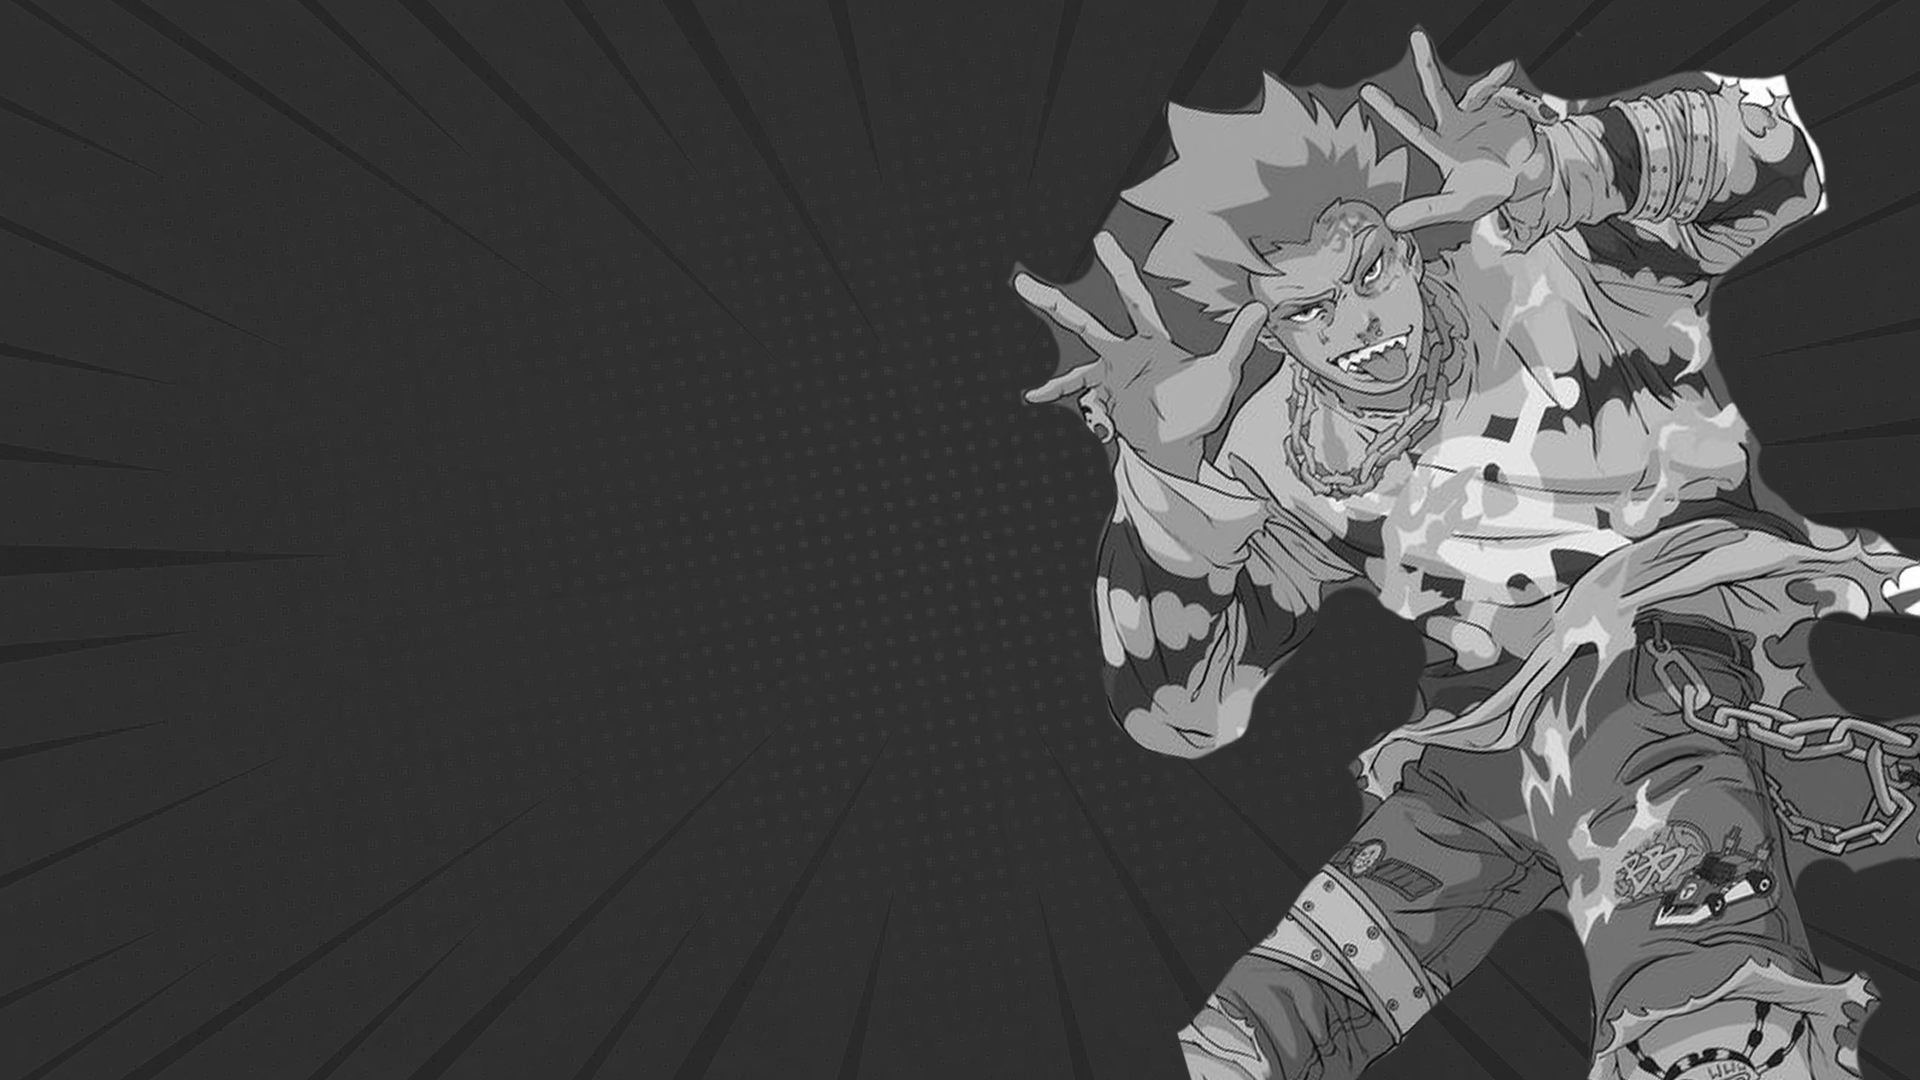
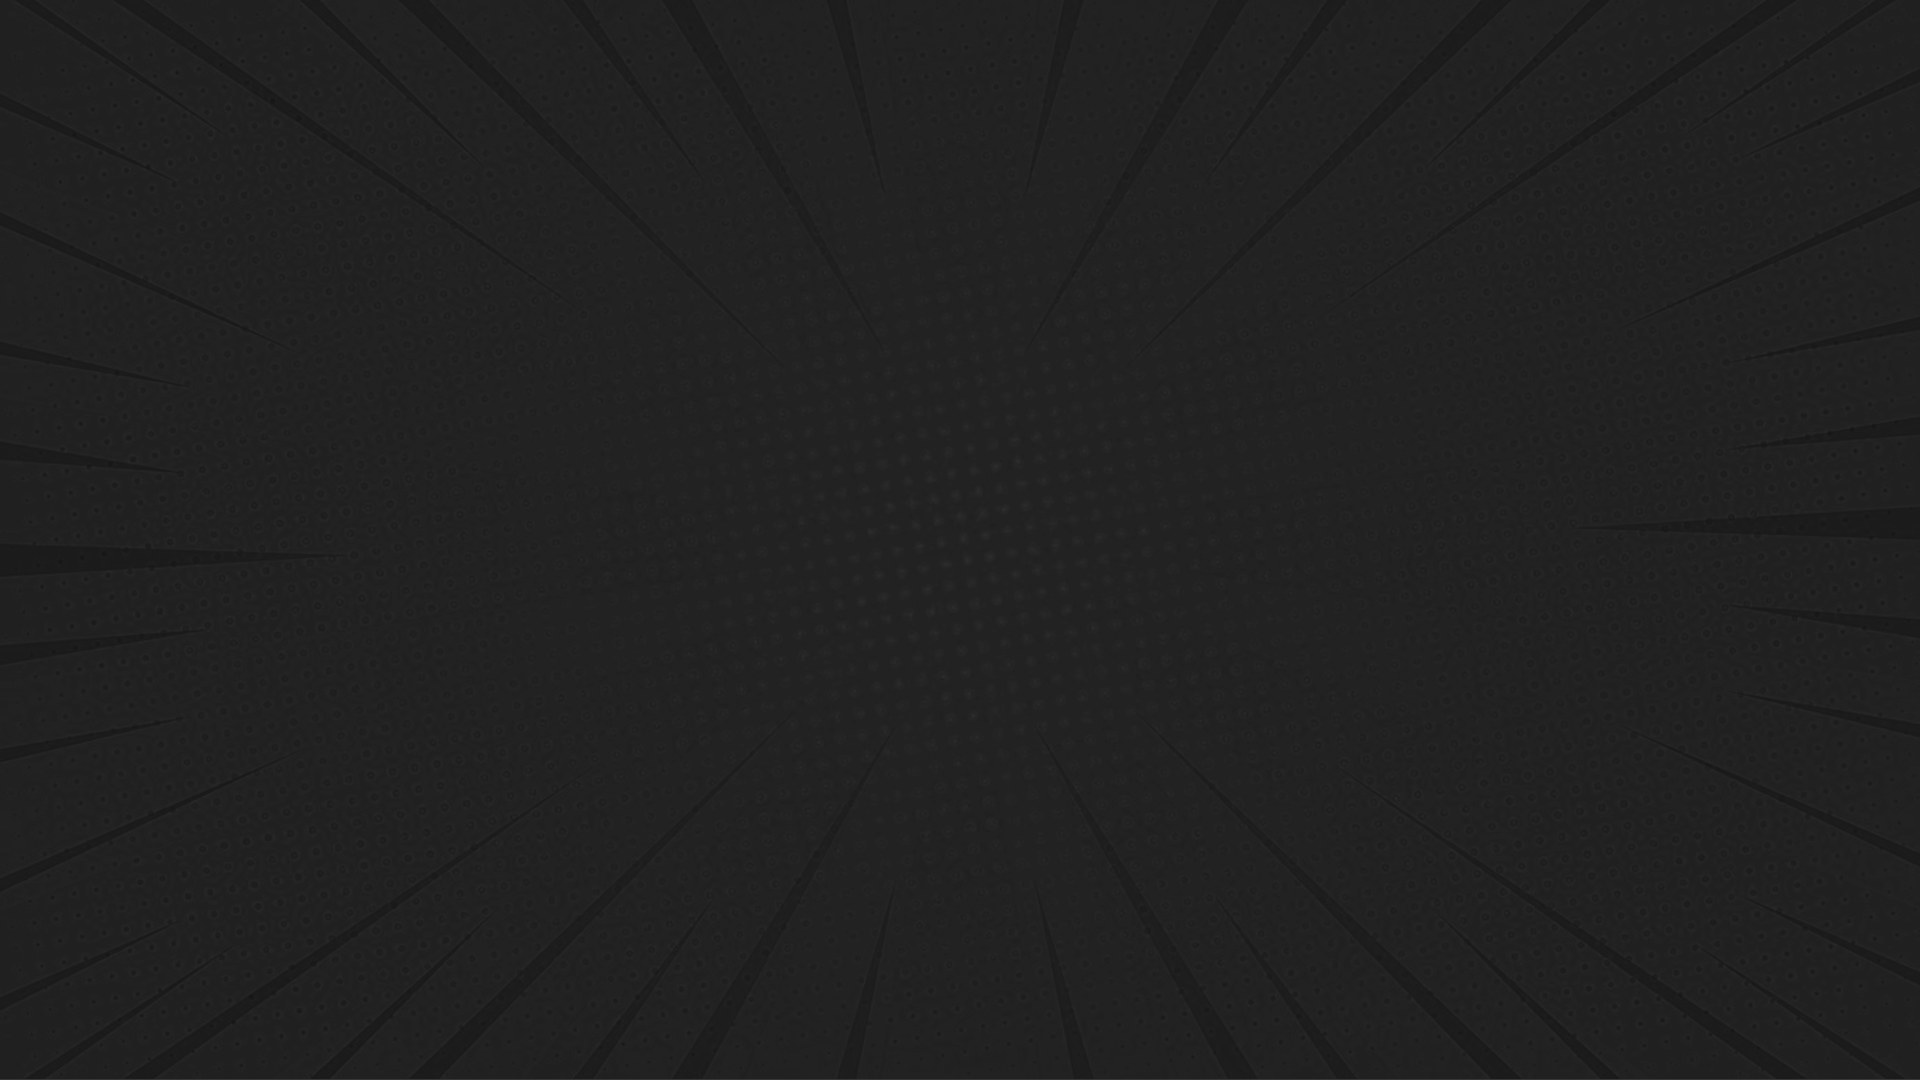
.

Changed region(s): [[0.5, 0.0306, 1.0, 1.0]]

diff --git a/src/lib/files/comps/home/blog/blogoverview.svelte b/src/lib/files/comps/home/blog/blogoverview.svelte
@@ -1,0 +1,53 @@
+<script lang="ts">
+    import laser from '$lib/assets/Thumbnails/industrial-laser-cutting-machine-about-1.jpg'
+    import git from '$lib/assets/Thumbnails/Git.png'
+    import tauri from '$lib/assets/Thumbnails/tauri.png'
+    import frage from '$lib/assets/Thumbnails/frage.jpg'
+	import Blogitem from './blogitem.svelte';
+    import sec2 from '$lib/assets/SectionSplitter/split_bot_y.svg';
+</script>
+
+<section class="py-6 sm:py-32 bg-[#F2CD19]">
+    <div class="mx-5 lg:mx-32 justify-center">
+        <h1 class="text-3xl font-bold uppercase mb-3 text-[#101011]"><span class="outlinex">01.</span> Latest Posts</h1>
+
+        <div class="max-w-screen-xl p-5 mx-auto  rounded-xl">
+            <div class="grid grid-cols-1 gap-5 lg:grid-cols-4 sm:grid-cols-2 ">
+                <Blogitem img={laser} day="21" month="Feb" category="Mechanical Stuff" text="Erfahrungsbericht: Einstieg ins Laser Cutting Universum"/>
+                <Blogitem img={git} day="22" month="Feb" category="Version Control" text="Git & Versionskontrolle - Grundlagen"/>
+                <Blogitem img={tauri} day="23" month="Feb" category="Coding" text="Einstieg in das Tauri Framework"/>
+                <Blogitem img={frage} day="24" month="Feb" category="Mechanical Stuff" text="Frage"/>
+            </div>
+        </div>
+    </div>
+    <div class="flex justify-center mt-10">
+        <button class="bg-[#101011] font-bold text-xl px-10 py-4 uppercase buttontest  transition-all">
+            View Full Blog <i class="fa-solid fa-angles-right"></i>
+        </button>
+    </div>
+</section>
+<img class="imgtest" src={sec2} alt="">
+
+
+
+<style>
+.outlinex {
+  font-weight: 900;
+  font-size: 20px;
+  color: #fff;
+  -webkit-text-stroke-color: #101011;
+  -webkit-text-fill-color: transparent;
+  -webkit-text-stroke-width: 1px;
+}
+
+.buttontest {
+    transform: skewX(-15deg);
+    box-shadow: 6px 6px 0 black;
+}
+.buttontest:hover {
+    color: black;
+    background-color: white;
+    box-shadow: 10px 10px 0 black;
+}
+
+</style>

diff --git a/src/lib/files/comps/home/blog/blogitem.svelte b/src/lib/files/comps/home/blog/blogitem.svelte
@@ -1,0 +1,22 @@
+<script lang="ts">
+    export let img: string;
+    export let day: string;
+    export let month: string;
+    export let text: string;
+    export let category: string;
+</script>
+
+
+<div class="skew-y-2 border-[8px] drop-shadow-[10px_10px_0px_rgba(0,0,0,1)] border-[#1d1d1f] relative flex items-end justify-start w-full text-left bg-center bg-cover h-96 dark:bg-gray-500 hover:scale-[1.02] transition cursor-pointer" style="background-image: url({img})">
+    <div class="absolute top-0 bottom-0 left-0 right-0 bg-gradient-to-b dark:via-transparent dark:from-black dark:to-black"></div>
+    <div class="absolute top-0 left-0 right-0 flex items-center justify-between mx-5 mt-3">
+        <a rel="noopener noreferrer" href="#" class="px-3 py-2 text-xs font-semibold tracki uppercase dark:text-gray-100 bgundefined">{category}</a>
+        <div class="flex flex-col justify-start text-center dark:text-gray-100">
+            <span class="text-3xl font-semibold leadi tracki">{day}</span>
+            <span class="leadi uppercase">{month}</span>
+        </div>
+    </div>
+    <h2 class="z-10 p-5">
+        <a rel="noopener noreferrer" href="#" class="font-medium text-md hover:underline dark:text-gray-100">{text}</a>
+    </h2>
+</div>

diff --git a/src/lib/files/comps/home/hero.svelte b/src/lib/files/comps/home/hero.svelte
@@ -1,19 +1,22 @@
 <script lang="ts">
 	import sec from '$lib/assets/SectionSplitter/split_top_y.svg';
 	import bg from '$lib/assets/shil2.png';
+	import char from '$lib/assets/character.png';
 	import Partner from './partner.svelte';
 	import split from '$lib/assets/splitter.svg'
+	import philstack from "$lib/assets/logos/philstack_long.svg"
 </script>
 
 <section class="overflow-hidden relative">
-	<div class="absolute flex w-full h-full items-end">
+	<div class="absolute flex w-full h-full items-end  z-20">
 		<div class="justify-center w-full mb-20">
-			<div class="hidden lg:block">
-				<Partner />
+			<div class="flex justify-center items-center h-80">
+				<img class="w-[30%]" src={philstack} alt="philstack">
 			</div>
+
 		</div>
 	</div>
-	<img class="object-cover w-full h-screen" src={bg} alt="" />
-	
-	<img class="absolute bottom-0 min-w-[100vw]" src={sec} alt="Section Split">
+	<img class="absolute object-cover bottom-0 right-[0px] h-[80%] z-10" src={char} alt="">
+	<img class="object-cover w-full h-screen  z-0" src={bg} alt="" />	
+	<img class="absolute bottom-0 min-h-[200px] object-cover  z-20" src={sec} alt="Section Split">
 </section>

diff --git a/src/lib/files/comps/home/partner.svelte b/src/lib/files/comps/home/partner.svelte
@@ -5,14 +5,12 @@
 	import lebenshilfe from "$lib/assets/logos/partner/Lebenshilfe.svg"
 	import xivdata from "$lib/assets/logos/partner/xivdata.svg"
 	import triostate from "$lib/assets/logos/partner/Triostate.png"
-	import philstack from "$lib/assets/logos/philstack_long.svg"
+	
 </script>
 
 <section class="py-10 sm:py-16 lg:py-24">
 	<div class="px-4 mx-auto max-w-7xl sm:px-6 lg:px-8">
-		<div class="flex justify-center items-center h-80">
-			<img class="w-[30%]" src={philstack} alt="philstack">
-		</div>
+
 		<div class="grid items-center grid-cols-2 gap-10 sm:gap-y-16 sm:grid-cols-3 xl:grid-cols-6">
 			<a href="https://lebenshilfe-suedthueringen.de/" class="hover:scale-110 transition-all">
 				<img class="brightness-[0.0] invert object-contain w-auto mx-auto h-14 drop-shadow-[3px_3px_0px_rgba(0,0,0,1)]" src={lebenshilfe} alt="" />

diff --git a/src/routes/+page.svelte b/src/routes/+page.svelte
@@ -1,13 +1,16 @@
 <script>
 	import Partner from '$lib/files/comps/home/partner.svelte';
 	import Hero from '$lib/files/comps/home/hero.svelte';
+  import Blogoverview from '$lib/files/comps/home/blog/blogoverview.svelte';
 </script>
 
 <div class="flex flex-col">
 	<Hero />
-	<div class="lg:hidden">
+
+	<Blogoverview />
+<!-- 	<div class="lg:hidden">
 		<Partner />
-	</div>
+	</div> -->
 	<!-- <Blog /> -->
 	<!-- <Techstack /> -->
 </div>
